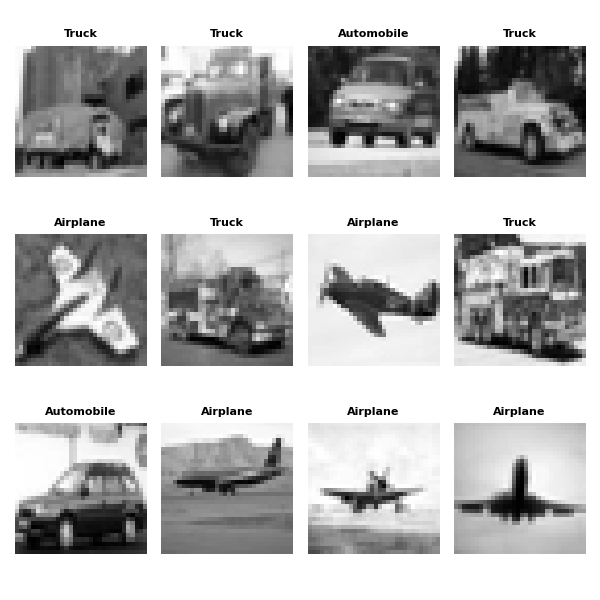
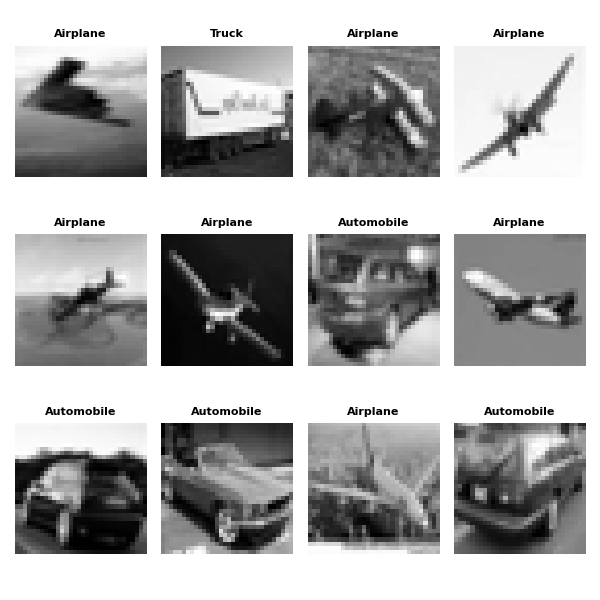
done with ps7

diff --git a/week7/ps7.py b/week7/ps7.py
@@ -15,107 +15,107 @@ import tensorflow as tf
 # from tensorflow.keras.utils import plot_model
 
 # Load data
-# data = scy.loadmat("/workspaces/python/week7/input/HW6_Data2_full.mat")
+data = scy.loadmat("/workspaces/python/week7/input/HW6_Data2_full.mat")
 
-# X = data['X']
-# y_labels = data['y_labels'].flatten()  # Flatten to 1D array
+X = data['X']
+y_labels = data['y_labels'].flatten()  # Flatten to 1D array
 
-# # a. Randomly shuffle and split into train/test sets
-# idx = np.arange(len(X))
-# np.random.shuffle(idx)
+# a. Randomly shuffle and split into train/test sets
+idx = np.arange(len(X))
+np.random.shuffle(idx)
 
-# train_idx = idx[:13000]
-# test_idx = idx[13000:15000]
+train_idx = idx[:13000]
+test_idx = idx[13000:15000]
 
-# X_train = X[train_idx]
-# y_train = y_labels[train_idx]
-# X_test = X[test_idx]
-# y_test = y_labels[test_idx]
+X_train = X[train_idx]
+y_train = y_labels[train_idx]
+X_test = X[test_idx]
+y_test = y_labels[test_idx]
 
 
-# imgs_train = X_train.reshape(-1, 32, 32, 1)
-# imgs_train = np.rot90(imgs_train, -1, axes=(1,2))
+imgs_train = X_train.reshape(-1, 32, 32, 1)
+imgs_train = np.rot90(imgs_train, -1, axes=(1,2))
 
-# vehicles = ['Airplane', 'Automobile', 'Truck']
+vehicles = ['Airplane', 'Automobile', 'Truck']
 
-# # b. choose 12 random images
-# idx = random.sample(range(len(imgs_train)), 12)
+# b. choose 12 random images
+idx = random.sample(range(len(imgs_train)), 12)
 
-# fig, axes = plot.subplots(3, 4, figsize=(6, 6))
-# for i, ax in enumerate(axes.flat):
-#     img = imgs_train[idx[i]].squeeze()
-#     label = vehicles[y_train[idx[i]] - 1]
-#     ax.imshow(img, cmap='gray')
-#     ax.set_title(label, fontsize=8, fontweight='bold')
-#     ax.axis('off')
+fig, axes = plot.subplots(3, 4, figsize=(6, 6))
+for i, ax in enumerate(axes.flat):
+    img = imgs_train[idx[i]].squeeze()
+    label = vehicles[y_train[idx[i]] - 1]
+    ax.imshow(img, cmap='gray')
+    ax.set_title(label, fontsize=8, fontweight='bold')
+    ax.axis('off')
 
-# plot.tight_layout()
-# plot.savefig('/workspaces/python/week7/output/ps7-1-b-1.png')
-# plot.show()
+plot.tight_layout()
+plot.savefig('/workspaces/python/week7/output/ps7-1-b-1.png')
+plot.show()
 
-# # c. 
-# imgs_test = X_test.reshape(-1, 32, 32, 1)
-# imgs_test = np.rot90(imgs_test, -1, axes=(1,2))
+# c. 
+imgs_test = X_test.reshape(-1, 32, 32, 1)
+imgs_test = np.rot90(imgs_test, -1, axes=(1,2))
 
-# # choose 6 random images
-# idx = random.sample(range(len(imgs_test)), 6)
+# choose 6 random images
+idx = random.sample(range(len(imgs_test)), 6)
 
-# fig, axes = plot.subplots(3, 2, figsize=(6, 6))
-# for i, ax in enumerate(axes.flat):
-#     img = imgs_test[idx[i]].squeeze()
-#     label = vehicles[y_test[idx[i]] - 1]
-#     ax.imshow(img, cmap='gray')
-#     ax.set_title(label, fontsize=8, fontweight='bold')
-#     ax.axis('off')
+fig, axes = plot.subplots(3, 2, figsize=(6, 6))
+for i, ax in enumerate(axes.flat):
+    img = imgs_test[idx[i]].squeeze()
+    label = vehicles[y_test[idx[i]] - 1]
+    ax.imshow(img, cmap='gray')
+    ax.set_title(label, fontsize=8, fontweight='bold')
+    ax.axis('off')
 
-# plot.tight_layout()
-# plot.savefig('/workspaces/python/week7/output/ps7-1-c-1.png')
-# plot.show()
+plot.tight_layout()
+plot.savefig('/workspaces/python/week7/output/ps7-1-c-1.png')
+plot.show()
 
-# # d. 
-# # turn y_labels to one hot endcoded vectors (y_train)
-# m = X_train.shape[0]
-# y_train_vec = y_train.flatten()
-# y_vec = np.zeros((m, 3))
-# for i in range(m):
-#     y_vec[i,y_train_vec[i]-1] = 1 # puts 1 at the corresponding spot in the vector
-# y_train_vec = y_vec
+# d. 
+# turn y_labels to one hot endcoded vectors (y_train)
+m = X_train.shape[0]
+y_train_vec = y_train.flatten()
+y_vec = np.zeros((m, 3))
+for i in range(m):
+    y_vec[i,y_train_vec[i]-1] = 1 # puts 1 at the corresponding spot in the vector
+y_train_vec = y_vec
 
-# # turn y_labels to one hot endcoded vectors (y_test)
-# m = X_test.shape[0]
-# y_test_vec = y_test.flatten()
-# y_vec = np.zeros((m, 3))
-# for i in range(m):
-#     y_vec[i,y_test_vec[i]-1] = 1 # puts 1 at the corresponding spot in the vector
-# y_test_vec = y_vec
+# turn y_labels to one hot endcoded vectors (y_test)
+m = X_test.shape[0]
+y_test_vec = y_test.flatten()
+y_vec = np.zeros((m, 3))
+for i in range(m):
+    y_vec[i,y_test_vec[i]-1] = 1 # puts 1 at the corresponding spot in the vector
+y_test_vec = y_vec
 
-# # train cnn model
-# model = tf.keras.Sequential([
-#     tf.keras.layers.Conv2D(32, kernel_size=3, activation='relu', input_shape=(32,32,1)),
-#     tf.keras.layers.MaxPooling2D(),
-#     tf.keras.layers.Conv2D(32, kernel_size=5, activation='relu'),
-#     tf.keras.layers.MaxPooling2D(),
-#     tf.keras.layers.Flatten(),
-#     tf.keras.layers.Dense(3, activation='softmax')
-# ])
+# train cnn model
+model = tf.keras.Sequential([
+    tf.keras.layers.Conv2D(32, kernel_size=3, activation='relu', input_shape=(32,32,1)),
+    tf.keras.layers.MaxPooling2D(),
+    tf.keras.layers.Conv2D(32, kernel_size=5, activation='relu'),
+    tf.keras.layers.MaxPooling2D(),
+    tf.keras.layers.Flatten(),
+    tf.keras.layers.Dense(3, activation='softmax')
+])
 
-# model.compile(optimizer='adam',loss=tf.keras.losses.CategoricalCrossentropy(),metrics=['accuracy'])
-# model.summary()
-# trained_model = model.fit(imgs_train, y_train_vec, epochs=15, batch_size=150, validation_data=(imgs_test, y_test_vec))
+model.compile(optimizer='adam',loss=tf.keras.losses.CategoricalCrossentropy(),metrics=['accuracy'])
+model.summary()
+trained_model = model.fit(imgs_train, y_train_vec, epochs=15, batch_size=150, validation_data=(imgs_test, y_test_vec))
 
-# plot.figure()
-# plot.plot(trained_model.history['accuracy'], label='accuracy')
-# # plot.plot(trained_model.history['val_accuracy'], label = 'val_accuracy')
-# plot.xlabel('epoch')
-# plot.ylabel('accuracy')
-# plot.ylim([0.5, 1])
-# plot.savefig('/workspaces/python/week7/output/ps7-1-e-2.png')
+plot.figure()
+plot.plot(trained_model.history['accuracy'], label='accuracy')
+# plot.plot(trained_model.history['val_accuracy'], label = 'val_accuracy')
+plot.xlabel('epoch')
+plot.ylabel('accuracy')
+plot.ylim([0.5, 1])
+plot.savefig('/workspaces/python/week7/output/ps7-1-e-2.png')
 
-# print(f'accuracy on training data: {trained_model.history['accuracy'][-1]:.3f}')
+print(f'accuracy on training data: {trained_model.history['accuracy'][-1]:.3f}')
 
-# # test the model
-# test_loss, test_acc = model.evaluate(imgs_test, y_test_vec)
-# print(f'accuracy on testing data: {test_acc:.3f}')
+# test the model
+test_loss, test_acc = model.evaluate(imgs_test, y_test_vec)
+print(f'accuracy on testing data: {test_acc:.3f}')
 
 
 # question 2: window based recognition
@@ -175,7 +175,7 @@ blue = (0,0,255)
 thres = 0.7
 
 # nested for loop for sliding window
-for K in range(6,11): # K = 1:10
+for K in range(1,11): # K = 1:10
     max_prob = 0 # holds max probability per img
     for i in range(0,192-96,stride):
         for j in range(0,192-32,stride):
